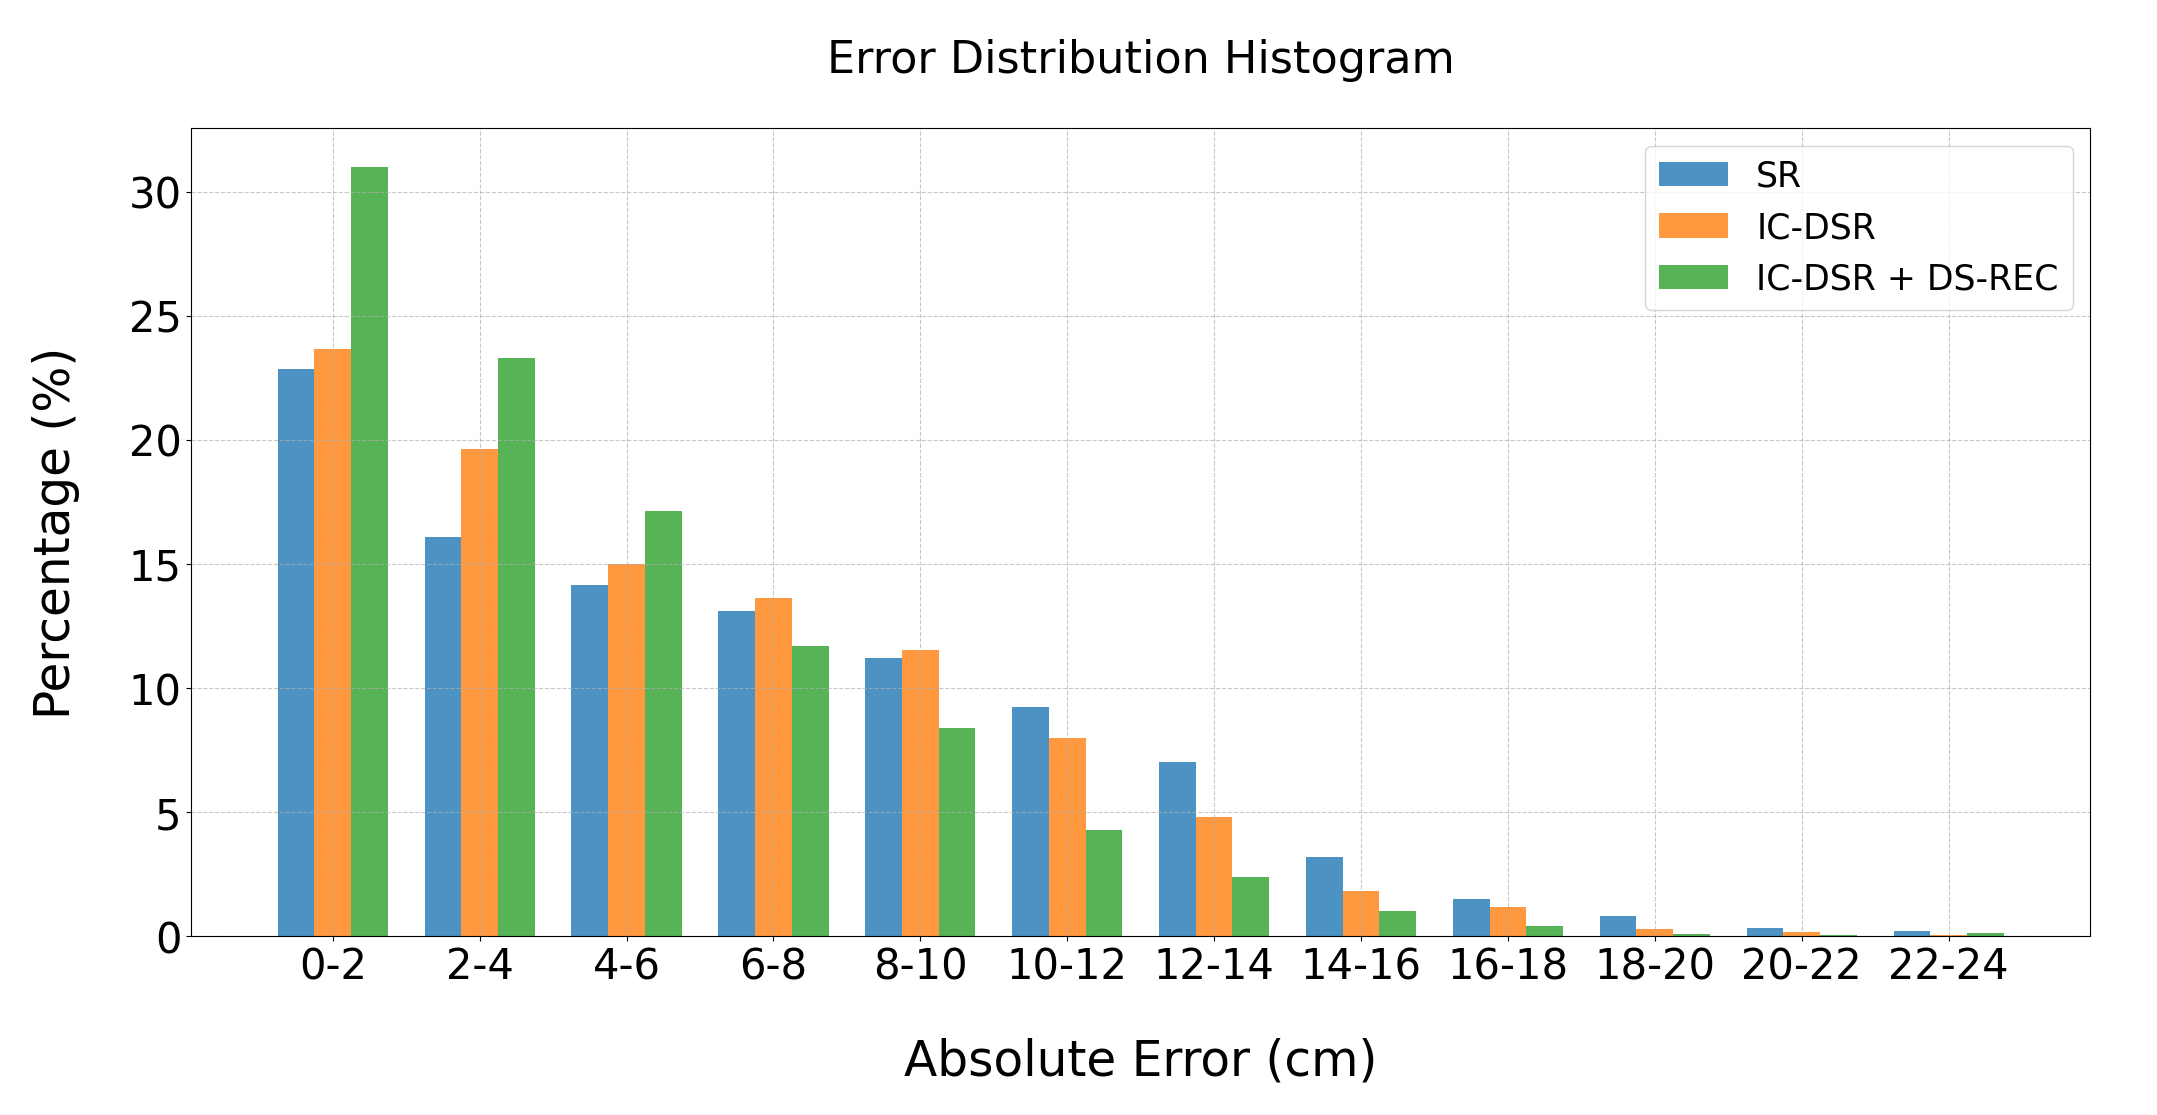
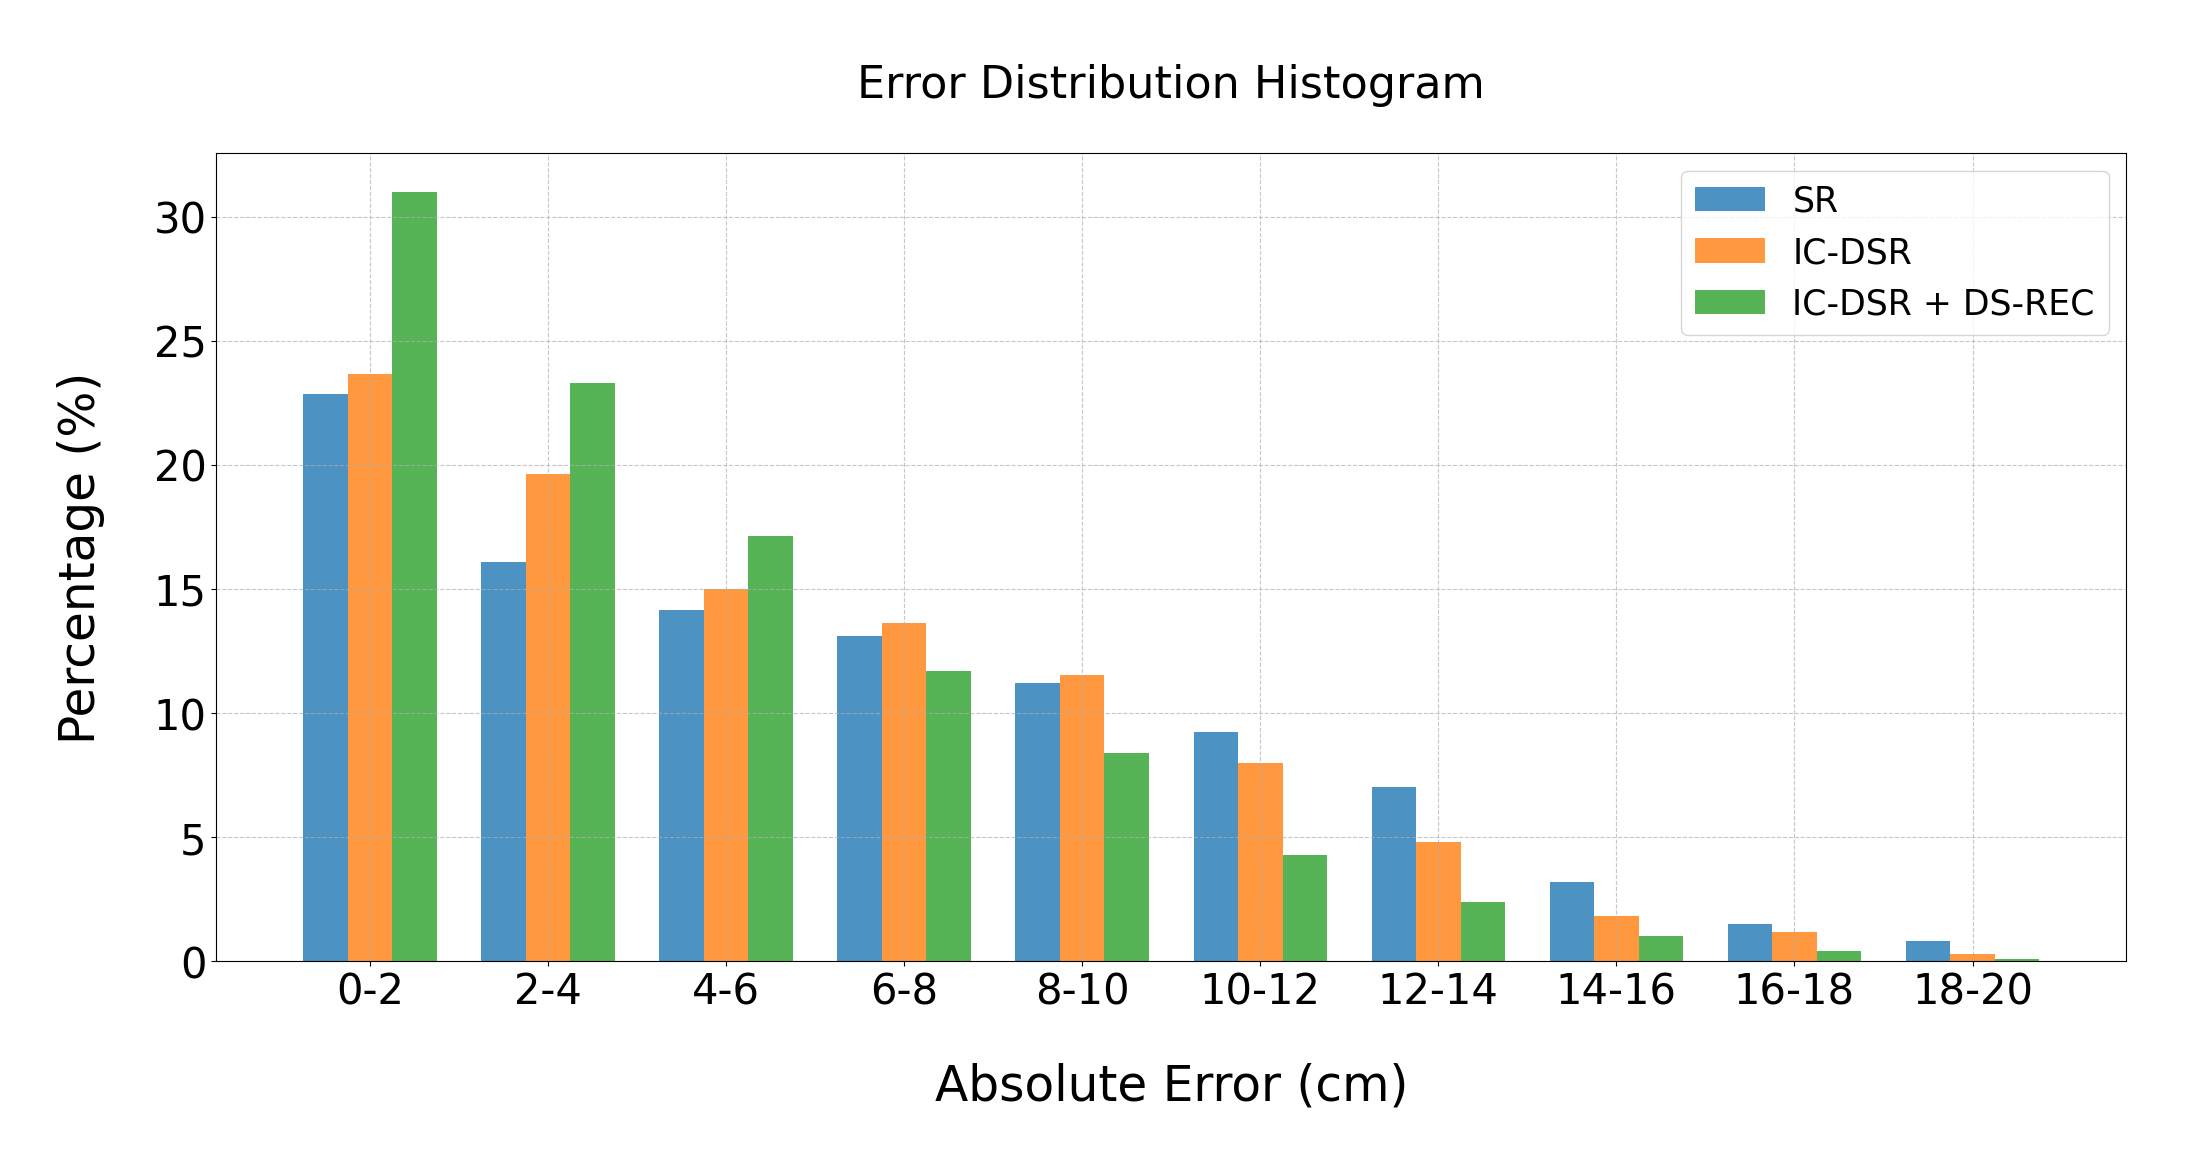
mdf erroe_dist

diff --git a/script/evaluation.py b/script/evaluation.py
@@ -346,7 +346,7 @@ def ranging_plot(ranging1, ranging1_sys_time, ranging2, ranging2_sys_time, rangi
     plt.tight_layout()
     plt.show()
 
-def error_histogram(align_sr_v2, align_dsr, align_cdsr, align_vicon, sys_time, vicon_sys_time, name1="SR", name2="IC-DSR", name3="IC-DSR + DS-REC", bin_width=2, max_range=24):
+def error_histogram(align_sr_v2, align_dsr, align_cdsr, align_vicon, sys_time, vicon_sys_time, name1="SR", name2="IC-DSR", name3="IC-DSR + DS-REC", bin_width=2, max_range=20):
     def get_error_for_hist(align_data, sys_time, align_vicon, vicon_sys_time):
         filtered, vicon_for_data = [], []
         for i, t in enumerate(sys_time):
